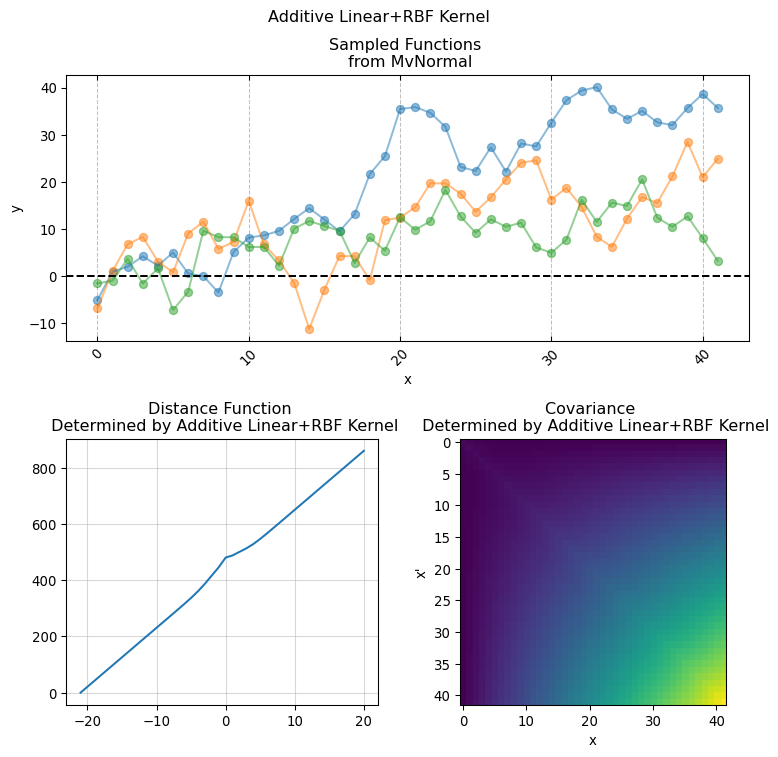
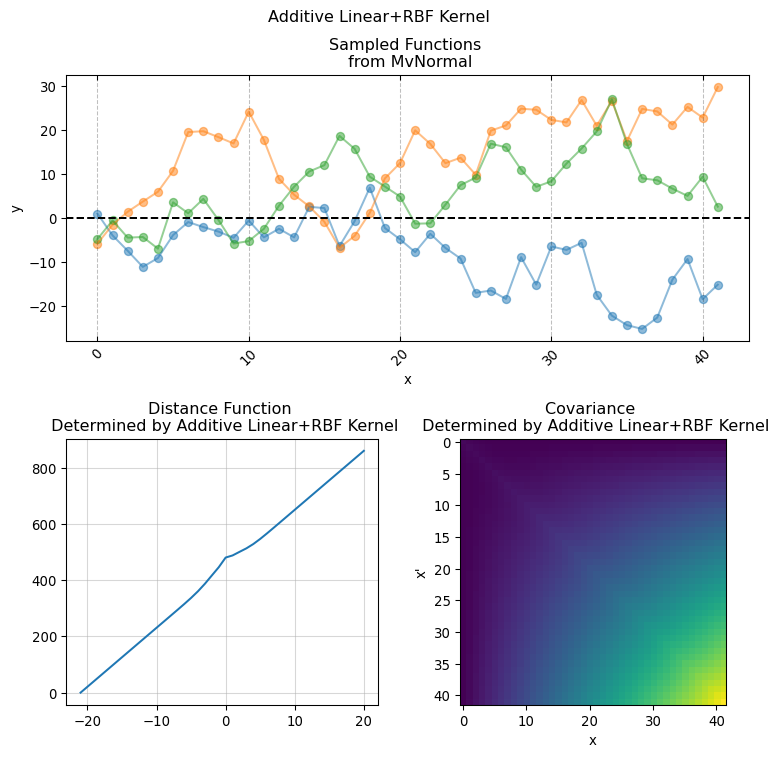
Added support for specifying mean

diff --git a/docs/posts/blog_posts/ab_test_gp.html b/docs/posts/blog_posts/ab_test_gp.html
@@ -258,7 +258,7 @@ pre > code.sourceCode > span > a:first-child::before { text-decoration: underlin
 </header>
 
 
-<div id="6d88b6d1" class="cell" data-vscode="{&quot;languageId&quot;:&quot;python&quot;}" data-execution_count="1">
+<div id="9a5b665f" class="cell" data-vscode="{&quot;languageId&quot;:&quot;python&quot;}" data-execution_count="1">
 <details class="code-fold">
 <summary>Show supplementary code</summary>
 <div class="sourceCode cell-code" id="cb1"><pre class="sourceCode python code-with-copy"><code class="sourceCode python"><span id="cb1-1"><a href="#cb1-1" aria-hidden="true" tabindex="-1"></a><span class="op">%</span>load_ext watermark</span>
@@ -342,7 +342,7 @@ pre > code.sourceCode > span > a:first-child::before { text-decoration: underlin
 </section>
 <section id="introduction" class="level1" data-number="2">
 <h1 data-number="2"><span class="header-section-number">2</span> Introduction</h1>
-<div id="269240c2" class="cell" data-execution_count="2">
+<div id="c2df2471" class="cell" data-execution_count="2">
 <div class="sourceCode cell-code" id="cb2"><pre class="sourceCode python code-with-copy"><code class="sourceCode python"><span id="cb2-1"><a href="#cb2-1" aria-hidden="true" tabindex="-1"></a>BLUE <span class="op">=</span> (<span class="dv">0</span>, <span class="dv">83</span>, <span class="dv">159</span>)</span>
 <span id="cb2-2"><a href="#cb2-2" aria-hidden="true" tabindex="-1"></a>BLUE <span class="op">=</span> <span class="bu">tuple</span>(value <span class="op">/</span> <span class="fl">255.</span> <span class="cf">for</span> value <span class="kw">in</span> BLUE)</span>
 <span id="cb2-3"><a href="#cb2-3" aria-hidden="true" tabindex="-1"></a></span>
@@ -377,94 +377,95 @@ pre > code.sourceCode > span > a:first-child::before { text-decoration: underlin
 <h1 data-number="3"><span class="header-section-number">3</span> Implementing a Gaussian Process Model in Numpyro</h1>
 <section id="kernel-functions" class="level2" data-number="3.1">
 <h2 data-number="3.1" class="anchored" data-anchor-id="kernel-functions"><span class="header-section-number">3.1</span> Kernel Functions</h2>
-<div id="62c966aa" class="cell" data-vscode="{&quot;languageId&quot;:&quot;python&quot;}" data-execution_count="3">
+<div id="2dcb06d9" class="cell" data-vscode="{&quot;languageId&quot;:&quot;python&quot;}" data-execution_count="3">
 <details class="code-fold">
 <summary>Show supplementary code</summary>
 <div class="sourceCode cell-code" id="cb3"><pre class="sourceCode python code-with-copy"><code class="sourceCode python"><span id="cb3-1"><a href="#cb3-1" aria-hidden="true" tabindex="-1"></a><span class="kw">def</span> simulate_kernel(</span>
 <span id="cb3-2"><a href="#cb3-2" aria-hidden="true" tabindex="-1"></a>    X: ArrayLike, </span>
 <span id="cb3-3"><a href="#cb3-3" aria-hidden="true" tabindex="-1"></a>    X_prime:ArrayLike, </span>
 <span id="cb3-4"><a href="#cb3-4" aria-hidden="true" tabindex="-1"></a>    kernel_function: Callable, </span>
-<span id="cb3-5"><a href="#cb3-5" aria-hidden="true" tabindex="-1"></a>    samples: <span class="bu">int</span></span>
-<span id="cb3-6"><a href="#cb3-6" aria-hidden="true" tabindex="-1"></a>) <span class="op">-&gt;</span> Tuple[ArrayLike, ArrayLike, ArrayLike]:</span>
-<span id="cb3-7"><a href="#cb3-7" aria-hidden="true" tabindex="-1"></a>    generated_covariance <span class="op">=</span> kernel_function(</span>
-<span id="cb3-8"><a href="#cb3-8" aria-hidden="true" tabindex="-1"></a>        X<span class="op">=</span>X,</span>
-<span id="cb3-9"><a href="#cb3-9" aria-hidden="true" tabindex="-1"></a>        X_prime<span class="op">=</span>X_prime,</span>
-<span id="cb3-10"><a href="#cb3-10" aria-hidden="true" tabindex="-1"></a>    )</span>
-<span id="cb3-11"><a href="#cb3-11" aria-hidden="true" tabindex="-1"></a>    distance <span class="op">=</span> generated_covariance[:, <span class="bu">len</span>(X) <span class="op">//</span> <span class="dv">2</span>]</span>
-<span id="cb3-12"><a href="#cb3-12" aria-hidden="true" tabindex="-1"></a>    sampled_functions <span class="op">=</span> np.random.multivariate_normal(</span>
-<span id="cb3-13"><a href="#cb3-13" aria-hidden="true" tabindex="-1"></a>        mean<span class="op">=</span>np.zeros(</span>
-<span id="cb3-14"><a href="#cb3-14" aria-hidden="true" tabindex="-1"></a>            shape<span class="op">=</span>generated_covariance.shape[<span class="dv">0</span>]</span>
-<span id="cb3-15"><a href="#cb3-15" aria-hidden="true" tabindex="-1"></a>        ),</span>
-<span id="cb3-16"><a href="#cb3-16" aria-hidden="true" tabindex="-1"></a>        cov<span class="op">=</span>generated_covariance,</span>
-<span id="cb3-17"><a href="#cb3-17" aria-hidden="true" tabindex="-1"></a>        size<span class="op">=</span>samples</span>
-<span id="cb3-18"><a href="#cb3-18" aria-hidden="true" tabindex="-1"></a>    )</span>
-<span id="cb3-19"><a href="#cb3-19" aria-hidden="true" tabindex="-1"></a>    <span class="cf">return</span> generated_covariance, distance, sampled_functions</span>
-<span id="cb3-20"><a href="#cb3-20" aria-hidden="true" tabindex="-1"></a></span>
-<span id="cb3-21"><a href="#cb3-21" aria-hidden="true" tabindex="-1"></a><span class="kw">def</span> visualize_kernel(</span>
-<span id="cb3-22"><a href="#cb3-22" aria-hidden="true" tabindex="-1"></a>    X: ArrayLike, </span>
-<span id="cb3-23"><a href="#cb3-23" aria-hidden="true" tabindex="-1"></a>    generated_covariance: ArrayLike, </span>
-<span id="cb3-24"><a href="#cb3-24" aria-hidden="true" tabindex="-1"></a>    distance: ArrayLike, </span>
-<span id="cb3-25"><a href="#cb3-25" aria-hidden="true" tabindex="-1"></a>    sampled_functions: ArrayLike, </span>
-<span id="cb3-26"><a href="#cb3-26" aria-hidden="true" tabindex="-1"></a>    kernel_name: <span class="bu">str</span></span>
-<span id="cb3-27"><a href="#cb3-27" aria-hidden="true" tabindex="-1"></a>) <span class="op">-&gt;</span> Figure:</span>
-<span id="cb3-28"><a href="#cb3-28" aria-hidden="true" tabindex="-1"></a></span>
-<span id="cb3-29"><a href="#cb3-29" aria-hidden="true" tabindex="-1"></a>    fig <span class="op">=</span> plt.figure(</span>
-<span id="cb3-30"><a href="#cb3-30" aria-hidden="true" tabindex="-1"></a>        figsize<span class="op">=</span>(<span class="dv">8</span>, <span class="dv">8</span>),</span>
-<span id="cb3-31"><a href="#cb3-31" aria-hidden="true" tabindex="-1"></a>        tight_layout<span class="op">=</span><span class="va">True</span></span>
-<span id="cb3-32"><a href="#cb3-32" aria-hidden="true" tabindex="-1"></a>    )</span>
-<span id="cb3-33"><a href="#cb3-33" aria-hidden="true" tabindex="-1"></a>    grid <span class="op">=</span> gridspec.GridSpec(</span>
-<span id="cb3-34"><a href="#cb3-34" aria-hidden="true" tabindex="-1"></a>        nrows<span class="op">=</span><span class="dv">2</span>,</span>
-<span id="cb3-35"><a href="#cb3-35" aria-hidden="true" tabindex="-1"></a>        ncols<span class="op">=</span><span class="dv">2</span></span>
-<span id="cb3-36"><a href="#cb3-36" aria-hidden="true" tabindex="-1"></a>    )</span>
-<span id="cb3-37"><a href="#cb3-37" aria-hidden="true" tabindex="-1"></a>    ax_functions <span class="op">=</span> fig.add_subplot(grid[<span class="dv">0</span>, :])</span>
-<span id="cb3-38"><a href="#cb3-38" aria-hidden="true" tabindex="-1"></a>    ax_distance <span class="op">=</span> fig.add_subplot(grid[<span class="dv">1</span>, <span class="dv">0</span>])</span>
-<span id="cb3-39"><a href="#cb3-39" aria-hidden="true" tabindex="-1"></a>    ax_covariance <span class="op">=</span> fig.add_subplot(grid[<span class="dv">1</span>, <span class="dv">1</span>])</span>
-<span id="cb3-40"><a href="#cb3-40" aria-hidden="true" tabindex="-1"></a></span>
-<span id="cb3-41"><a href="#cb3-41" aria-hidden="true" tabindex="-1"></a>    <span class="cf">for</span> index <span class="kw">in</span> <span class="bu">range</span>(sampled_functions.shape[<span class="dv">0</span>]):</span>
-<span id="cb3-42"><a href="#cb3-42" aria-hidden="true" tabindex="-1"></a></span>
-<span id="cb3-43"><a href="#cb3-43" aria-hidden="true" tabindex="-1"></a>        ax_functions <span class="op">=</span> plot_univariate_series(</span>
-<span id="cb3-44"><a href="#cb3-44" aria-hidden="true" tabindex="-1"></a>            series_data<span class="op">=</span>{</span>
-<span id="cb3-45"><a href="#cb3-45" aria-hidden="true" tabindex="-1"></a>                <span class="st">"x"</span>: {</span>
-<span id="cb3-46"><a href="#cb3-46" aria-hidden="true" tabindex="-1"></a>                    <span class="st">"data"</span>: X,</span>
-<span id="cb3-47"><a href="#cb3-47" aria-hidden="true" tabindex="-1"></a>                    <span class="st">"label"</span>: <span class="st">"x"</span></span>
-<span id="cb3-48"><a href="#cb3-48" aria-hidden="true" tabindex="-1"></a>                },</span>
-<span id="cb3-49"><a href="#cb3-49" aria-hidden="true" tabindex="-1"></a>                <span class="st">"y"</span>: {</span>
-<span id="cb3-50"><a href="#cb3-50" aria-hidden="true" tabindex="-1"></a>                    <span class="st">"data"</span>: sampled_functions[index, :],</span>
-<span id="cb3-51"><a href="#cb3-51" aria-hidden="true" tabindex="-1"></a>                    <span class="st">"label"</span>: <span class="st">"y"</span></span>
-<span id="cb3-52"><a href="#cb3-52" aria-hidden="true" tabindex="-1"></a>                },</span>
-<span id="cb3-53"><a href="#cb3-53" aria-hidden="true" tabindex="-1"></a></span>
-<span id="cb3-54"><a href="#cb3-54" aria-hidden="true" tabindex="-1"></a>            },</span>
-<span id="cb3-55"><a href="#cb3-55" aria-hidden="true" tabindex="-1"></a>            ax<span class="op">=</span>ax_functions,</span>
-<span id="cb3-56"><a href="#cb3-56" aria-hidden="true" tabindex="-1"></a>            alpha<span class="op">=</span><span class="fl">0.5</span></span>
-<span id="cb3-57"><a href="#cb3-57" aria-hidden="true" tabindex="-1"></a>        )</span>
-<span id="cb3-58"><a href="#cb3-58" aria-hidden="true" tabindex="-1"></a></span>
-<span id="cb3-59"><a href="#cb3-59" aria-hidden="true" tabindex="-1"></a>    ax_functions.set_title(<span class="st">"Sampled Functions </span><span class="ch">\n</span><span class="st"> from MvNormal"</span>)</span>
-<span id="cb3-60"><a href="#cb3-60" aria-hidden="true" tabindex="-1"></a>    ax_functions.axhline(<span class="dv">0</span>, linestyle<span class="op">=</span><span class="st">"--"</span>, c<span class="op">=</span><span class="st">"k"</span>)</span>
-<span id="cb3-61"><a href="#cb3-61" aria-hidden="true" tabindex="-1"></a></span>
-<span id="cb3-62"><a href="#cb3-62" aria-hidden="true" tabindex="-1"></a>    ax_distance.plot(</span>
-<span id="cb3-63"><a href="#cb3-63" aria-hidden="true" tabindex="-1"></a>        X <span class="op">-</span> (<span class="bu">len</span>(X) <span class="op">//</span> <span class="dv">2</span>),</span>
-<span id="cb3-64"><a href="#cb3-64" aria-hidden="true" tabindex="-1"></a>        distance</span>
-<span id="cb3-65"><a href="#cb3-65" aria-hidden="true" tabindex="-1"></a>    )</span>
-<span id="cb3-66"><a href="#cb3-66" aria-hidden="true" tabindex="-1"></a>    ax_distance.grid(alpha<span class="op">=</span><span class="fl">0.5</span>)</span>
-<span id="cb3-67"><a href="#cb3-67" aria-hidden="true" tabindex="-1"></a>    ax_distance.set_title(<span class="ss">f"Distance Function </span><span class="ch">\n</span><span class="ss"> Determined by </span><span class="sc">{</span>kernel_name<span class="sc">}</span><span class="ss"> Kernel"</span>)</span>
-<span id="cb3-68"><a href="#cb3-68" aria-hidden="true" tabindex="-1"></a>    ax_covariance.set_ylabel(<span class="st">"Similarity"</span>)</span>
-<span id="cb3-69"><a href="#cb3-69" aria-hidden="true" tabindex="-1"></a>    ax_covariance.set_xlabel(<span class="st">"Distance"</span>)</span>
-<span id="cb3-70"><a href="#cb3-70" aria-hidden="true" tabindex="-1"></a></span>
-<span id="cb3-71"><a href="#cb3-71" aria-hidden="true" tabindex="-1"></a>    ax_covariance.imshow(</span>
-<span id="cb3-72"><a href="#cb3-72" aria-hidden="true" tabindex="-1"></a>        generated_covariance</span>
-<span id="cb3-73"><a href="#cb3-73" aria-hidden="true" tabindex="-1"></a>    )</span>
-<span id="cb3-74"><a href="#cb3-74" aria-hidden="true" tabindex="-1"></a>    ax_covariance.set_ylabel(<span class="st">"x'"</span>)</span>
-<span id="cb3-75"><a href="#cb3-75" aria-hidden="true" tabindex="-1"></a>    ax_covariance.set_xlabel(<span class="st">"x"</span>)</span>
-<span id="cb3-76"><a href="#cb3-76" aria-hidden="true" tabindex="-1"></a>    ax_covariance.set_title(<span class="ss">f"Covariance </span><span class="ch">\n</span><span class="ss"> Determined by </span><span class="sc">{</span>kernel_name<span class="sc">}</span><span class="ss"> Kernel"</span>)</span>
-<span id="cb3-77"><a href="#cb3-77" aria-hidden="true" tabindex="-1"></a></span>
+<span id="cb3-5"><a href="#cb3-5" aria-hidden="true" tabindex="-1"></a>    samples: <span class="bu">int</span>,</span>
+<span id="cb3-6"><a href="#cb3-6" aria-hidden="true" tabindex="-1"></a>    mean: <span class="bu">float</span> <span class="op">=</span> <span class="fl">0.</span></span>
+<span id="cb3-7"><a href="#cb3-7" aria-hidden="true" tabindex="-1"></a>) <span class="op">-&gt;</span> Tuple[ArrayLike, ArrayLike, ArrayLike]:</span>
+<span id="cb3-8"><a href="#cb3-8" aria-hidden="true" tabindex="-1"></a>    generated_covariance <span class="op">=</span> kernel_function(</span>
+<span id="cb3-9"><a href="#cb3-9" aria-hidden="true" tabindex="-1"></a>        X<span class="op">=</span>X,</span>
+<span id="cb3-10"><a href="#cb3-10" aria-hidden="true" tabindex="-1"></a>        X_prime<span class="op">=</span>X_prime,</span>
+<span id="cb3-11"><a href="#cb3-11" aria-hidden="true" tabindex="-1"></a>    )</span>
+<span id="cb3-12"><a href="#cb3-12" aria-hidden="true" tabindex="-1"></a>    distance <span class="op">=</span> generated_covariance[:, <span class="bu">len</span>(X) <span class="op">//</span> <span class="dv">2</span>]</span>
+<span id="cb3-13"><a href="#cb3-13" aria-hidden="true" tabindex="-1"></a>    sampled_functions <span class="op">=</span> np.random.multivariate_normal(</span>
+<span id="cb3-14"><a href="#cb3-14" aria-hidden="true" tabindex="-1"></a>        mean<span class="op">=</span>np.zeros(</span>
+<span id="cb3-15"><a href="#cb3-15" aria-hidden="true" tabindex="-1"></a>            shape<span class="op">=</span>generated_covariance.shape[<span class="dv">0</span>]</span>
+<span id="cb3-16"><a href="#cb3-16" aria-hidden="true" tabindex="-1"></a>        ) <span class="op">+</span> mean,</span>
+<span id="cb3-17"><a href="#cb3-17" aria-hidden="true" tabindex="-1"></a>        cov<span class="op">=</span>generated_covariance,</span>
+<span id="cb3-18"><a href="#cb3-18" aria-hidden="true" tabindex="-1"></a>        size<span class="op">=</span>samples</span>
+<span id="cb3-19"><a href="#cb3-19" aria-hidden="true" tabindex="-1"></a>    )</span>
+<span id="cb3-20"><a href="#cb3-20" aria-hidden="true" tabindex="-1"></a>    <span class="cf">return</span> generated_covariance, distance, sampled_functions</span>
+<span id="cb3-21"><a href="#cb3-21" aria-hidden="true" tabindex="-1"></a></span>
+<span id="cb3-22"><a href="#cb3-22" aria-hidden="true" tabindex="-1"></a><span class="kw">def</span> visualize_kernel(</span>
+<span id="cb3-23"><a href="#cb3-23" aria-hidden="true" tabindex="-1"></a>    X: ArrayLike, </span>
+<span id="cb3-24"><a href="#cb3-24" aria-hidden="true" tabindex="-1"></a>    generated_covariance: ArrayLike, </span>
+<span id="cb3-25"><a href="#cb3-25" aria-hidden="true" tabindex="-1"></a>    distance: ArrayLike, </span>
+<span id="cb3-26"><a href="#cb3-26" aria-hidden="true" tabindex="-1"></a>    sampled_functions: ArrayLike, </span>
+<span id="cb3-27"><a href="#cb3-27" aria-hidden="true" tabindex="-1"></a>    kernel_name: <span class="bu">str</span></span>
+<span id="cb3-28"><a href="#cb3-28" aria-hidden="true" tabindex="-1"></a>) <span class="op">-&gt;</span> Figure:</span>
+<span id="cb3-29"><a href="#cb3-29" aria-hidden="true" tabindex="-1"></a></span>
+<span id="cb3-30"><a href="#cb3-30" aria-hidden="true" tabindex="-1"></a>    fig <span class="op">=</span> plt.figure(</span>
+<span id="cb3-31"><a href="#cb3-31" aria-hidden="true" tabindex="-1"></a>        figsize<span class="op">=</span>(<span class="dv">8</span>, <span class="dv">8</span>),</span>
+<span id="cb3-32"><a href="#cb3-32" aria-hidden="true" tabindex="-1"></a>        tight_layout<span class="op">=</span><span class="va">True</span></span>
+<span id="cb3-33"><a href="#cb3-33" aria-hidden="true" tabindex="-1"></a>    )</span>
+<span id="cb3-34"><a href="#cb3-34" aria-hidden="true" tabindex="-1"></a>    grid <span class="op">=</span> gridspec.GridSpec(</span>
+<span id="cb3-35"><a href="#cb3-35" aria-hidden="true" tabindex="-1"></a>        nrows<span class="op">=</span><span class="dv">2</span>,</span>
+<span id="cb3-36"><a href="#cb3-36" aria-hidden="true" tabindex="-1"></a>        ncols<span class="op">=</span><span class="dv">2</span></span>
+<span id="cb3-37"><a href="#cb3-37" aria-hidden="true" tabindex="-1"></a>    )</span>
+<span id="cb3-38"><a href="#cb3-38" aria-hidden="true" tabindex="-1"></a>    ax_functions <span class="op">=</span> fig.add_subplot(grid[<span class="dv">0</span>, :])</span>
+<span id="cb3-39"><a href="#cb3-39" aria-hidden="true" tabindex="-1"></a>    ax_distance <span class="op">=</span> fig.add_subplot(grid[<span class="dv">1</span>, <span class="dv">0</span>])</span>
+<span id="cb3-40"><a href="#cb3-40" aria-hidden="true" tabindex="-1"></a>    ax_covariance <span class="op">=</span> fig.add_subplot(grid[<span class="dv">1</span>, <span class="dv">1</span>])</span>
+<span id="cb3-41"><a href="#cb3-41" aria-hidden="true" tabindex="-1"></a></span>
+<span id="cb3-42"><a href="#cb3-42" aria-hidden="true" tabindex="-1"></a>    <span class="cf">for</span> index <span class="kw">in</span> <span class="bu">range</span>(sampled_functions.shape[<span class="dv">0</span>]):</span>
+<span id="cb3-43"><a href="#cb3-43" aria-hidden="true" tabindex="-1"></a></span>
+<span id="cb3-44"><a href="#cb3-44" aria-hidden="true" tabindex="-1"></a>        ax_functions <span class="op">=</span> plot_univariate_series(</span>
+<span id="cb3-45"><a href="#cb3-45" aria-hidden="true" tabindex="-1"></a>            series_data<span class="op">=</span>{</span>
+<span id="cb3-46"><a href="#cb3-46" aria-hidden="true" tabindex="-1"></a>                <span class="st">"x"</span>: {</span>
+<span id="cb3-47"><a href="#cb3-47" aria-hidden="true" tabindex="-1"></a>                    <span class="st">"data"</span>: X,</span>
+<span id="cb3-48"><a href="#cb3-48" aria-hidden="true" tabindex="-1"></a>                    <span class="st">"label"</span>: <span class="st">"x"</span></span>
+<span id="cb3-49"><a href="#cb3-49" aria-hidden="true" tabindex="-1"></a>                },</span>
+<span id="cb3-50"><a href="#cb3-50" aria-hidden="true" tabindex="-1"></a>                <span class="st">"y"</span>: {</span>
+<span id="cb3-51"><a href="#cb3-51" aria-hidden="true" tabindex="-1"></a>                    <span class="st">"data"</span>: sampled_functions[index, :],</span>
+<span id="cb3-52"><a href="#cb3-52" aria-hidden="true" tabindex="-1"></a>                    <span class="st">"label"</span>: <span class="st">"y"</span></span>
+<span id="cb3-53"><a href="#cb3-53" aria-hidden="true" tabindex="-1"></a>                },</span>
+<span id="cb3-54"><a href="#cb3-54" aria-hidden="true" tabindex="-1"></a></span>
+<span id="cb3-55"><a href="#cb3-55" aria-hidden="true" tabindex="-1"></a>            },</span>
+<span id="cb3-56"><a href="#cb3-56" aria-hidden="true" tabindex="-1"></a>            ax<span class="op">=</span>ax_functions,</span>
+<span id="cb3-57"><a href="#cb3-57" aria-hidden="true" tabindex="-1"></a>            alpha<span class="op">=</span><span class="fl">0.5</span></span>
+<span id="cb3-58"><a href="#cb3-58" aria-hidden="true" tabindex="-1"></a>        )</span>
+<span id="cb3-59"><a href="#cb3-59" aria-hidden="true" tabindex="-1"></a></span>
+<span id="cb3-60"><a href="#cb3-60" aria-hidden="true" tabindex="-1"></a>    ax_functions.set_title(<span class="st">"Sampled Functions </span><span class="ch">\n</span><span class="st"> from MvNormal"</span>)</span>
+<span id="cb3-61"><a href="#cb3-61" aria-hidden="true" tabindex="-1"></a>    ax_functions.axhline(<span class="dv">0</span>, linestyle<span class="op">=</span><span class="st">"--"</span>, c<span class="op">=</span><span class="st">"k"</span>)</span>
+<span id="cb3-62"><a href="#cb3-62" aria-hidden="true" tabindex="-1"></a></span>
+<span id="cb3-63"><a href="#cb3-63" aria-hidden="true" tabindex="-1"></a>    ax_distance.plot(</span>
+<span id="cb3-64"><a href="#cb3-64" aria-hidden="true" tabindex="-1"></a>        X <span class="op">-</span> (<span class="bu">len</span>(X) <span class="op">//</span> <span class="dv">2</span>),</span>
+<span id="cb3-65"><a href="#cb3-65" aria-hidden="true" tabindex="-1"></a>        distance</span>
+<span id="cb3-66"><a href="#cb3-66" aria-hidden="true" tabindex="-1"></a>    )</span>
+<span id="cb3-67"><a href="#cb3-67" aria-hidden="true" tabindex="-1"></a>    ax_distance.grid(alpha<span class="op">=</span><span class="fl">0.5</span>)</span>
+<span id="cb3-68"><a href="#cb3-68" aria-hidden="true" tabindex="-1"></a>    ax_distance.set_title(<span class="ss">f"Distance Function </span><span class="ch">\n</span><span class="ss"> Determined by </span><span class="sc">{</span>kernel_name<span class="sc">}</span><span class="ss"> Kernel"</span>)</span>
+<span id="cb3-69"><a href="#cb3-69" aria-hidden="true" tabindex="-1"></a>    ax_covariance.set_ylabel(<span class="st">"Similarity"</span>)</span>
+<span id="cb3-70"><a href="#cb3-70" aria-hidden="true" tabindex="-1"></a>    ax_covariance.set_xlabel(<span class="st">"Distance"</span>)</span>
+<span id="cb3-71"><a href="#cb3-71" aria-hidden="true" tabindex="-1"></a></span>
+<span id="cb3-72"><a href="#cb3-72" aria-hidden="true" tabindex="-1"></a>    ax_covariance.imshow(</span>
+<span id="cb3-73"><a href="#cb3-73" aria-hidden="true" tabindex="-1"></a>        generated_covariance</span>
+<span id="cb3-74"><a href="#cb3-74" aria-hidden="true" tabindex="-1"></a>    )</span>
+<span id="cb3-75"><a href="#cb3-75" aria-hidden="true" tabindex="-1"></a>    ax_covariance.set_ylabel(<span class="st">"x'"</span>)</span>
+<span id="cb3-76"><a href="#cb3-76" aria-hidden="true" tabindex="-1"></a>    ax_covariance.set_xlabel(<span class="st">"x"</span>)</span>
+<span id="cb3-77"><a href="#cb3-77" aria-hidden="true" tabindex="-1"></a>    ax_covariance.set_title(<span class="ss">f"Covariance </span><span class="ch">\n</span><span class="ss"> Determined by </span><span class="sc">{</span>kernel_name<span class="sc">}</span><span class="ss"> Kernel"</span>)</span>
 <span id="cb3-78"><a href="#cb3-78" aria-hidden="true" tabindex="-1"></a></span>
-<span id="cb3-79"><a href="#cb3-79" aria-hidden="true" tabindex="-1"></a>    plt.suptitle(<span class="ss">f"</span><span class="sc">{</span>kernel_name<span class="sc">}</span><span class="ss"> Kernel"</span>)</span>
-<span id="cb3-80"><a href="#cb3-80" aria-hidden="true" tabindex="-1"></a>    <span class="cf">return</span> fig</span></code><button title="Copy to Clipboard" class="code-copy-button"><i class="bi"></i></button></pre></div>
+<span id="cb3-79"><a href="#cb3-79" aria-hidden="true" tabindex="-1"></a></span>
+<span id="cb3-80"><a href="#cb3-80" aria-hidden="true" tabindex="-1"></a>    plt.suptitle(<span class="ss">f"</span><span class="sc">{</span>kernel_name<span class="sc">}</span><span class="ss"> Kernel"</span>)</span>
+<span id="cb3-81"><a href="#cb3-81" aria-hidden="true" tabindex="-1"></a>    <span class="cf">return</span> fig</span></code><button title="Copy to Clipboard" class="code-copy-button"><i class="bi"></i></button></pre></div>
 </details>
 </div>
 <section id="radial-basis-function-kernel" class="level3" data-number="3.1.1">
 <h3 data-number="3.1.1" class="anchored" data-anchor-id="radial-basis-function-kernel"><span class="header-section-number">3.1.1</span> Radial Basis Function Kernel</h3>
-<div id="9753e8b0" class="cell" data-execution_count="4">
+<div id="e3ec287e" class="cell" data-execution_count="4">
 <div class="sourceCode cell-code" id="cb4"><pre class="sourceCode python code-with-copy"><code class="sourceCode python"><span id="cb4-1"><a href="#cb4-1" aria-hidden="true" tabindex="-1"></a><span class="at">@jit</span></span>
 <span id="cb4-2"><a href="#cb4-2" aria-hidden="true" tabindex="-1"></a><span class="kw">def</span> RBF_kernel(</span>
 <span id="cb4-3"><a href="#cb4-3" aria-hidden="true" tabindex="-1"></a>    X: ArrayLike, </span>
@@ -493,7 +494,7 @@ pre > code.sourceCode > span > a:first-child::before { text-decoration: underlin
 <span id="cb4-26"><a href="#cb4-26" aria-hidden="true" tabindex="-1"></a></span>
 <span id="cb4-27"><a href="#cb4-27" aria-hidden="true" tabindex="-1"></a>    <span class="cf">return</span> scaled_covariance_matrix</span></code><button title="Copy to Clipboard" class="code-copy-button"><i class="bi"></i></button></pre></div>
 </div>
-<div id="227437b5" class="cell" data-execution_count="5">
+<div id="9e7551db" class="cell" data-execution_count="5">
 <div class="sourceCode cell-code" id="cb5"><pre class="sourceCode python code-with-copy"><code class="sourceCode python"><span id="cb5-1"><a href="#cb5-1" aria-hidden="true" tabindex="-1"></a>kernel_function <span class="op">=</span> partial(</span>
 <span id="cb5-2"><a href="#cb5-2" aria-hidden="true" tabindex="-1"></a>    RBF_kernel,</span>
 <span id="cb5-3"><a href="#cb5-3" aria-hidden="true" tabindex="-1"></a>    variance<span class="op">=</span><span class="dv">1</span>,</span>
@@ -525,7 +526,7 @@ pre > code.sourceCode > span > a:first-child::before { text-decoration: underlin
 </section>
 <section id="matern-kernel" class="level3" data-number="3.1.2">
 <h3 data-number="3.1.2" class="anchored" data-anchor-id="matern-kernel"><span class="header-section-number">3.1.2</span> Matern Kernel</h3>
-<div id="6da9c7bd" class="cell" data-execution_count="6">
+<div id="3c354264" class="cell" data-execution_count="6">
 <div class="sourceCode cell-code" id="cb6"><pre class="sourceCode python code-with-copy"><code class="sourceCode python"><span id="cb6-1"><a href="#cb6-1" aria-hidden="true" tabindex="-1"></a><span class="at">@jit</span></span>
 <span id="cb6-2"><a href="#cb6-2" aria-hidden="true" tabindex="-1"></a><span class="kw">def</span> rational_quadratic_kernel(</span>
 <span id="cb6-3"><a href="#cb6-3" aria-hidden="true" tabindex="-1"></a>    X: ArrayLike, </span>
@@ -557,7 +558,7 @@ pre > code.sourceCode > span > a:first-child::before { text-decoration: underlin
 <span id="cb6-29"><a href="#cb6-29" aria-hidden="true" tabindex="-1"></a></span>
 <span id="cb6-30"><a href="#cb6-30" aria-hidden="true" tabindex="-1"></a>    <span class="cf">return</span> scaled_covariance_matrix</span></code><button title="Copy to Clipboard" class="code-copy-button"><i class="bi"></i></button></pre></div>
 </div>
-<div id="4b88291b" class="cell" data-execution_count="7">
+<div id="f360c3ff" class="cell" data-execution_count="7">
 <div class="sourceCode cell-code" id="cb7"><pre class="sourceCode python code-with-copy"><code class="sourceCode python"><span id="cb7-1"><a href="#cb7-1" aria-hidden="true" tabindex="-1"></a>kernel_function <span class="op">=</span> partial(</span>
 <span id="cb7-2"><a href="#cb7-2" aria-hidden="true" tabindex="-1"></a>    rational_quadratic_kernel,</span>
 <span id="cb7-3"><a href="#cb7-3" aria-hidden="true" tabindex="-1"></a>    variance<span class="op">=</span><span class="dv">1</span>,</span>
@@ -591,7 +592,7 @@ pre > code.sourceCode > span > a:first-child::before { text-decoration: underlin
 </section>
 <section id="periodic-kernel" class="level3" data-number="3.1.3">
 <h3 data-number="3.1.3" class="anchored" data-anchor-id="periodic-kernel"><span class="header-section-number">3.1.3</span> Periodic Kernel</h3>
-<div id="77ef33e7" class="cell" data-execution_count="8">
+<div id="c0e2e72b" class="cell" data-execution_count="8">
 <div class="sourceCode cell-code" id="cb8"><pre class="sourceCode python code-with-copy"><code class="sourceCode python"><span id="cb8-1"><a href="#cb8-1" aria-hidden="true" tabindex="-1"></a><span class="at">@jit</span></span>
 <span id="cb8-2"><a href="#cb8-2" aria-hidden="true" tabindex="-1"></a><span class="kw">def</span> periodic_kernel(</span>
 <span id="cb8-3"><a href="#cb8-3" aria-hidden="true" tabindex="-1"></a>    X: ArrayLike, </span>
@@ -623,7 +624,7 @@ pre > code.sourceCode > span > a:first-child::before { text-decoration: underlin
 <span id="cb8-29"><a href="#cb8-29" aria-hidden="true" tabindex="-1"></a></span>
 <span id="cb8-30"><a href="#cb8-30" aria-hidden="true" tabindex="-1"></a>    <span class="cf">return</span> scaled_covariance_matrix</span></code><button title="Copy to Clipboard" class="code-copy-button"><i class="bi"></i></button></pre></div>
 </div>
-<div id="5f5db42a" class="cell" data-execution_count="9">
+<div id="5ca05286" class="cell" data-execution_count="9">
 <div class="sourceCode cell-code" id="cb9"><pre class="sourceCode python code-with-copy"><code class="sourceCode python"><span id="cb9-1"><a href="#cb9-1" aria-hidden="true" tabindex="-1"></a>kernel_function <span class="op">=</span> partial(</span>
 <span id="cb9-2"><a href="#cb9-2" aria-hidden="true" tabindex="-1"></a>    periodic_kernel,</span>
 <span id="cb9-3"><a href="#cb9-3" aria-hidden="true" tabindex="-1"></a>    variance<span class="op">=</span><span class="dv">1</span>,</span>
@@ -657,7 +658,7 @@ pre > code.sourceCode > span > a:first-child::before { text-decoration: underlin
 </section>
 <section id="linear-kernel" class="level3" data-number="3.1.4">
 <h3 data-number="3.1.4" class="anchored" data-anchor-id="linear-kernel"><span class="header-section-number">3.1.4</span> Linear Kernel</h3>
-<div id="1901b48f" class="cell" data-execution_count="10">
+<div id="265327cb" class="cell" data-execution_count="10">
 <div class="sourceCode cell-code" id="cb10"><pre class="sourceCode python code-with-copy"><code class="sourceCode python"><span id="cb10-1"><a href="#cb10-1" aria-hidden="true" tabindex="-1"></a><span class="at">@jit</span></span>
 <span id="cb10-2"><a href="#cb10-2" aria-hidden="true" tabindex="-1"></a><span class="kw">def</span> linear_kernel(</span>
 <span id="cb10-3"><a href="#cb10-3" aria-hidden="true" tabindex="-1"></a>    X: ArrayLike, </span>
@@ -673,7 +674,7 @@ pre > code.sourceCode > span > a:first-child::before { text-decoration: underlin
 <span id="cb10-13"><a href="#cb10-13" aria-hidden="true" tabindex="-1"></a></span>
 <span id="cb10-14"><a href="#cb10-14" aria-hidden="true" tabindex="-1"></a>    <span class="cf">return</span> scaled_covariance_matrix</span></code><button title="Copy to Clipboard" class="code-copy-button"><i class="bi"></i></button></pre></div>
 </div>
-<div id="20b8231e" class="cell" data-execution_count="11">
+<div id="7035e669" class="cell" data-execution_count="11">
 <div class="sourceCode cell-code" id="cb11"><pre class="sourceCode python code-with-copy"><code class="sourceCode python"><span id="cb11-1"><a href="#cb11-1" aria-hidden="true" tabindex="-1"></a>kernel_function <span class="op">=</span> partial(</span>
 <span id="cb11-2"><a href="#cb11-2" aria-hidden="true" tabindex="-1"></a>    linear_kernel,</span>
 <span id="cb11-3"><a href="#cb11-3" aria-hidden="true" tabindex="-1"></a>    variance<span class="op">=</span><span class="fl">0.01</span>,</span>
@@ -704,7 +705,7 @@ pre > code.sourceCode > span > a:first-child::before { text-decoration: underlin
 </section>
 <section id="white-noise-kernel" class="level3" data-number="3.1.5">
 <h3 data-number="3.1.5" class="anchored" data-anchor-id="white-noise-kernel"><span class="header-section-number">3.1.5</span> White Noise Kernel</h3>
-<div id="d90b0747" class="cell" data-execution_count="12">
+<div id="75b90871" class="cell" data-execution_count="12">
 <div class="sourceCode cell-code" id="cb12"><pre class="sourceCode python code-with-copy"><code class="sourceCode python"><span id="cb12-1"><a href="#cb12-1" aria-hidden="true" tabindex="-1"></a><span class="at">@jit</span></span>
 <span id="cb12-2"><a href="#cb12-2" aria-hidden="true" tabindex="-1"></a><span class="kw">def</span> white_noise_kernel(</span>
 <span id="cb12-3"><a href="#cb12-3" aria-hidden="true" tabindex="-1"></a>    X: ArrayLike, </span>
@@ -714,7 +715,7 @@ pre > code.sourceCode > span > a:first-child::before { text-decoration: underlin
 <span id="cb12-7"><a href="#cb12-7" aria-hidden="true" tabindex="-1"></a>    covariance_matrix <span class="op">=</span> variance <span class="op">*</span> jnp.eye(X.shape[<span class="dv">0</span>])</span>
 <span id="cb12-8"><a href="#cb12-8" aria-hidden="true" tabindex="-1"></a>    <span class="cf">return</span> covariance_matrix</span></code><button title="Copy to Clipboard" class="code-copy-button"><i class="bi"></i></button></pre></div>
 </div>
-<div id="f9fd8f58" class="cell" data-execution_count="13">
+<div id="e7c7746d" class="cell" data-execution_count="13">
 <div class="sourceCode cell-code" id="cb13"><pre class="sourceCode python code-with-copy"><code class="sourceCode python"><span id="cb13-1"><a href="#cb13-1" aria-hidden="true" tabindex="-1"></a>kernel_function <span class="op">=</span> partial(</span>
 <span id="cb13-2"><a href="#cb13-2" aria-hidden="true" tabindex="-1"></a>    white_noise_kernel,</span>
 <span id="cb13-3"><a href="#cb13-3" aria-hidden="true" tabindex="-1"></a>    variance<span class="op">=</span><span class="fl">0.01</span>,</span>
@@ -744,7 +745,7 @@ pre > code.sourceCode > span > a:first-child::before { text-decoration: underlin
 </section>
 <section id="combining-kernels" class="level3" data-number="3.1.6">
 <h3 data-number="3.1.6" class="anchored" data-anchor-id="combining-kernels"><span class="header-section-number">3.1.6</span> Combining Kernels</h3>
-<div id="313be24b" class="cell" data-execution_count="14">
+<div id="89fbcaf5" class="cell" data-execution_count="14">
 <div class="sourceCode cell-code" id="cb14"><pre class="sourceCode python code-with-copy"><code class="sourceCode python"><span id="cb14-1"><a href="#cb14-1" aria-hidden="true" tabindex="-1"></a><span class="at">@partial</span>(jit, static_argnums<span class="op">=</span>(<span class="dv">2</span>,<span class="dv">3</span>))</span>
 <span id="cb14-2"><a href="#cb14-2" aria-hidden="true" tabindex="-1"></a><span class="kw">def</span> additive_combined_kernel(</span>
 <span id="cb14-3"><a href="#cb14-3" aria-hidden="true" tabindex="-1"></a>    X: ArrayLike, </span>
@@ -763,7 +764,7 @@ pre > code.sourceCode > span > a:first-child::before { text-decoration: underlin
 <span id="cb14-16"><a href="#cb14-16" aria-hidden="true" tabindex="-1"></a>) <span class="op">-&gt;</span> ArrayLike:</span>
 <span id="cb14-17"><a href="#cb14-17" aria-hidden="true" tabindex="-1"></a>    <span class="cf">return</span> first_kernel(X<span class="op">=</span>X, X_prime<span class="op">=</span>X_prime) <span class="op">*</span> second_kernel(X<span class="op">=</span>X, X_prime<span class="op">=</span>X_prime)</span></code><button title="Copy to Clipboard" class="code-copy-button"><i class="bi"></i></button></pre></div>
 </div>
-<div id="ceba91b5" class="cell" data-execution_count="15">
+<div id="dae099f7" class="cell" data-execution_count="15">
 <div class="sourceCode cell-code" id="cb15"><pre class="sourceCode python code-with-copy"><code class="sourceCode python"><span id="cb15-1"><a href="#cb15-1" aria-hidden="true" tabindex="-1"></a>kernel_function_linear <span class="op">=</span> partial(</span>
 <span id="cb15-2"><a href="#cb15-2" aria-hidden="true" tabindex="-1"></a>    linear_kernel,</span>
 <span id="cb15-3"><a href="#cb15-3" aria-hidden="true" tabindex="-1"></a>    variance<span class="op">=</span><span class="fl">0.0001</span>,</span>
@@ -804,7 +805,7 @@ pre > code.sourceCode > span > a:first-child::before { text-decoration: underlin
 </div>
 </div>
 </div>
-<div id="0f195774" class="cell" data-execution_count="16">
+<div id="ea4f89d5" class="cell" data-execution_count="16">
 <div class="sourceCode cell-code" id="cb16"><pre class="sourceCode python code-with-copy"><code class="sourceCode python"><span id="cb16-1"><a href="#cb16-1" aria-hidden="true" tabindex="-1"></a>kernel_function_periodic <span class="op">=</span> partial(</span>
 <span id="cb16-2"><a href="#cb16-2" aria-hidden="true" tabindex="-1"></a>    periodic_kernel,</span>
 <span id="cb16-3"><a href="#cb16-3" aria-hidden="true" tabindex="-1"></a>    variance<span class="op">=</span><span class="dv">5</span>,</span>
@@ -851,7 +852,7 @@ pre > code.sourceCode > span > a:first-child::before { text-decoration: underlin
 </section>
 <section id="the-gaussian-process-model" class="level2" data-number="3.2">
 <h2 data-number="3.2" class="anchored" data-anchor-id="the-gaussian-process-model"><span class="header-section-number">3.2</span> The Gaussian Process Model</h2>
-<div id="2ef3fa88" class="cell" data-execution_count="17">
+<div id="6bcb706b" class="cell" data-execution_count="17">
 <div class="sourceCode cell-code" id="cb17"><pre class="sourceCode python code-with-copy"><code class="sourceCode python"><span id="cb17-1"><a href="#cb17-1" aria-hidden="true" tabindex="-1"></a><span class="kw">def</span> RBF_gaussian_process(</span>
 <span id="cb17-2"><a href="#cb17-2" aria-hidden="true" tabindex="-1"></a>        trend_kernel_variance_dist,</span>
 <span id="cb17-3"><a href="#cb17-3" aria-hidden="true" tabindex="-1"></a>        trend_kernel_noise_dist,</span>
@@ -973,10 +974,10 @@ pre > code.sourceCode > span > a:first-child::before { text-decoration: underlin
 <section id="hardware-and-requirements" class="level1" data-number="8">
 <h1 data-number="8"><span class="header-section-number">8</span> Hardware and Requirements</h1>
 <p>Here you can find the hardware and python requirements used for building this post.</p>
-<div id="5c02c162" class="cell" data-execution_count="18">
+<div id="1cc64160" class="cell" data-execution_count="18">
 <div class="sourceCode cell-code" id="cb18"><pre class="sourceCode python code-with-copy"><code class="sourceCode python"><span id="cb18-1"><a href="#cb18-1" aria-hidden="true" tabindex="-1"></a><span class="op">%</span>watermark</span></code><button title="Copy to Clipboard" class="code-copy-button"><i class="bi"></i></button></pre></div>
 <div class="cell-output cell-output-stdout">
-<pre><code>Last updated: 2025-03-30T10:58:39.605019+01:00
+<pre><code>Last updated: 2025-03-30T16:41:27.423449+01:00
 
 Python implementation: CPython
 Python version       : 3.13.2
@@ -992,16 +993,16 @@ Architecture: 64bit
 </code></pre>
 </div>
 </div>
-<div id="320549b0" class="cell" data-execution_count="19">
+<div id="adc5fa61" class="cell" data-execution_count="19">
 <div class="sourceCode cell-code" id="cb20"><pre class="sourceCode python code-with-copy"><code class="sourceCode python"><span id="cb20-1"><a href="#cb20-1" aria-hidden="true" tabindex="-1"></a><span class="op">%</span>watermark <span class="op">--</span>iversions</span></code><button title="Copy to Clipboard" class="code-copy-button"><i class="bi"></i></button></pre></div>
 <div class="cell-output cell-output-stdout">
-<pre><code>matplotlib: 3.10.1
-pandas    : 2.2.3
-seaborn   : 0.13.2
-jax       : 0.5.2
+<pre><code>seaborn   : 0.13.2
 numpyro   : 0.18.0
 numpy     : 2.2.4
+pandas    : 2.2.3
+jax       : 0.5.2
 scipy     : 1.15.2
+matplotlib: 3.10.1
 </code></pre>
 </div>
 </div>

diff --git a/docs/posts/blog_posts/index.html b/docs/posts/blog_posts/index.html
@@ -244,10 +244,10 @@ window.Quarto = {
 
 <div class="quarto-listing quarto-listing-container-default" id="listing-listing">
 <div class="list quarto-listing-default">
[2 lines of base64/hex data omitted]
 <div class="thumbnail">
 <p><a href="../../posts/blog_posts/ab_test_gp.html" class="no-external"></a></p><a href="../../posts/blog_posts/ab_test_gp.html" class="no-external">
-<div class="listing-item-img-placeholder card-img-top" >&nbsp;</div>
+<p class="card-img-top"><img src="ab_test_gp_files/figure-html/cell-6-output-1.png"  class="thumbnail-image card-img"/></p>
 </a><p><a href="../../posts/blog_posts/ab_test_gp.html" class="no-external"></a></p>
 </div>
 <div class="body">
